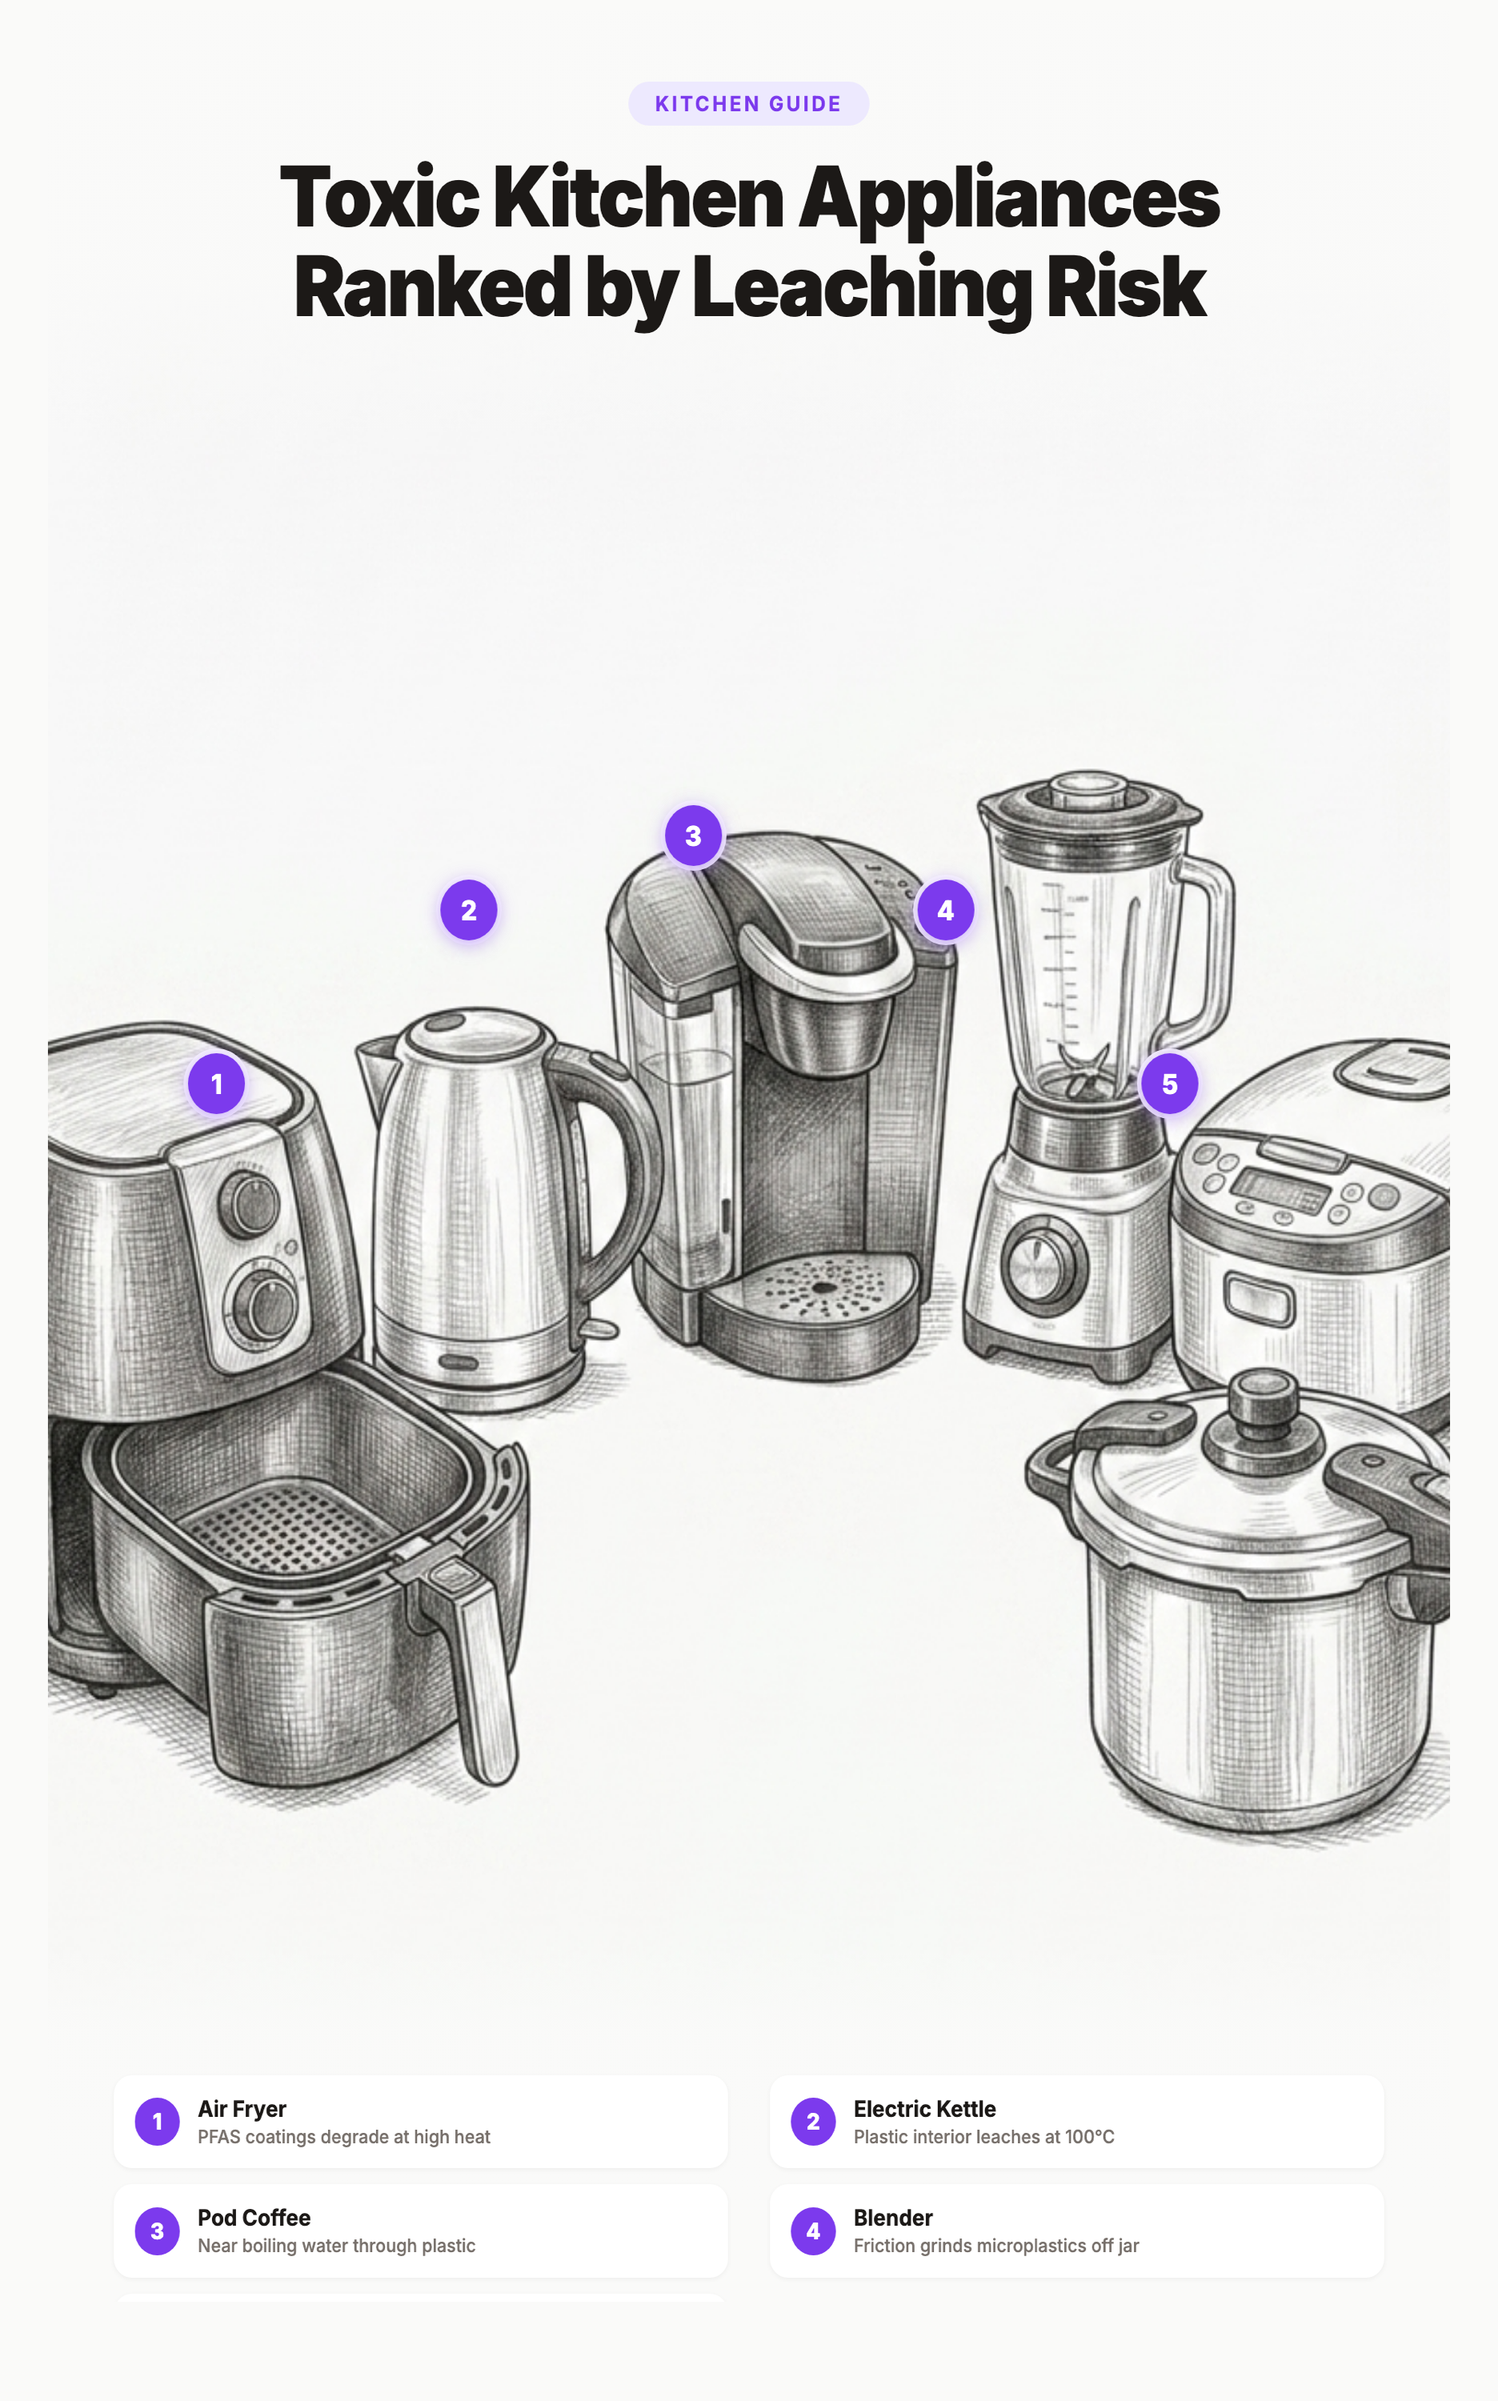
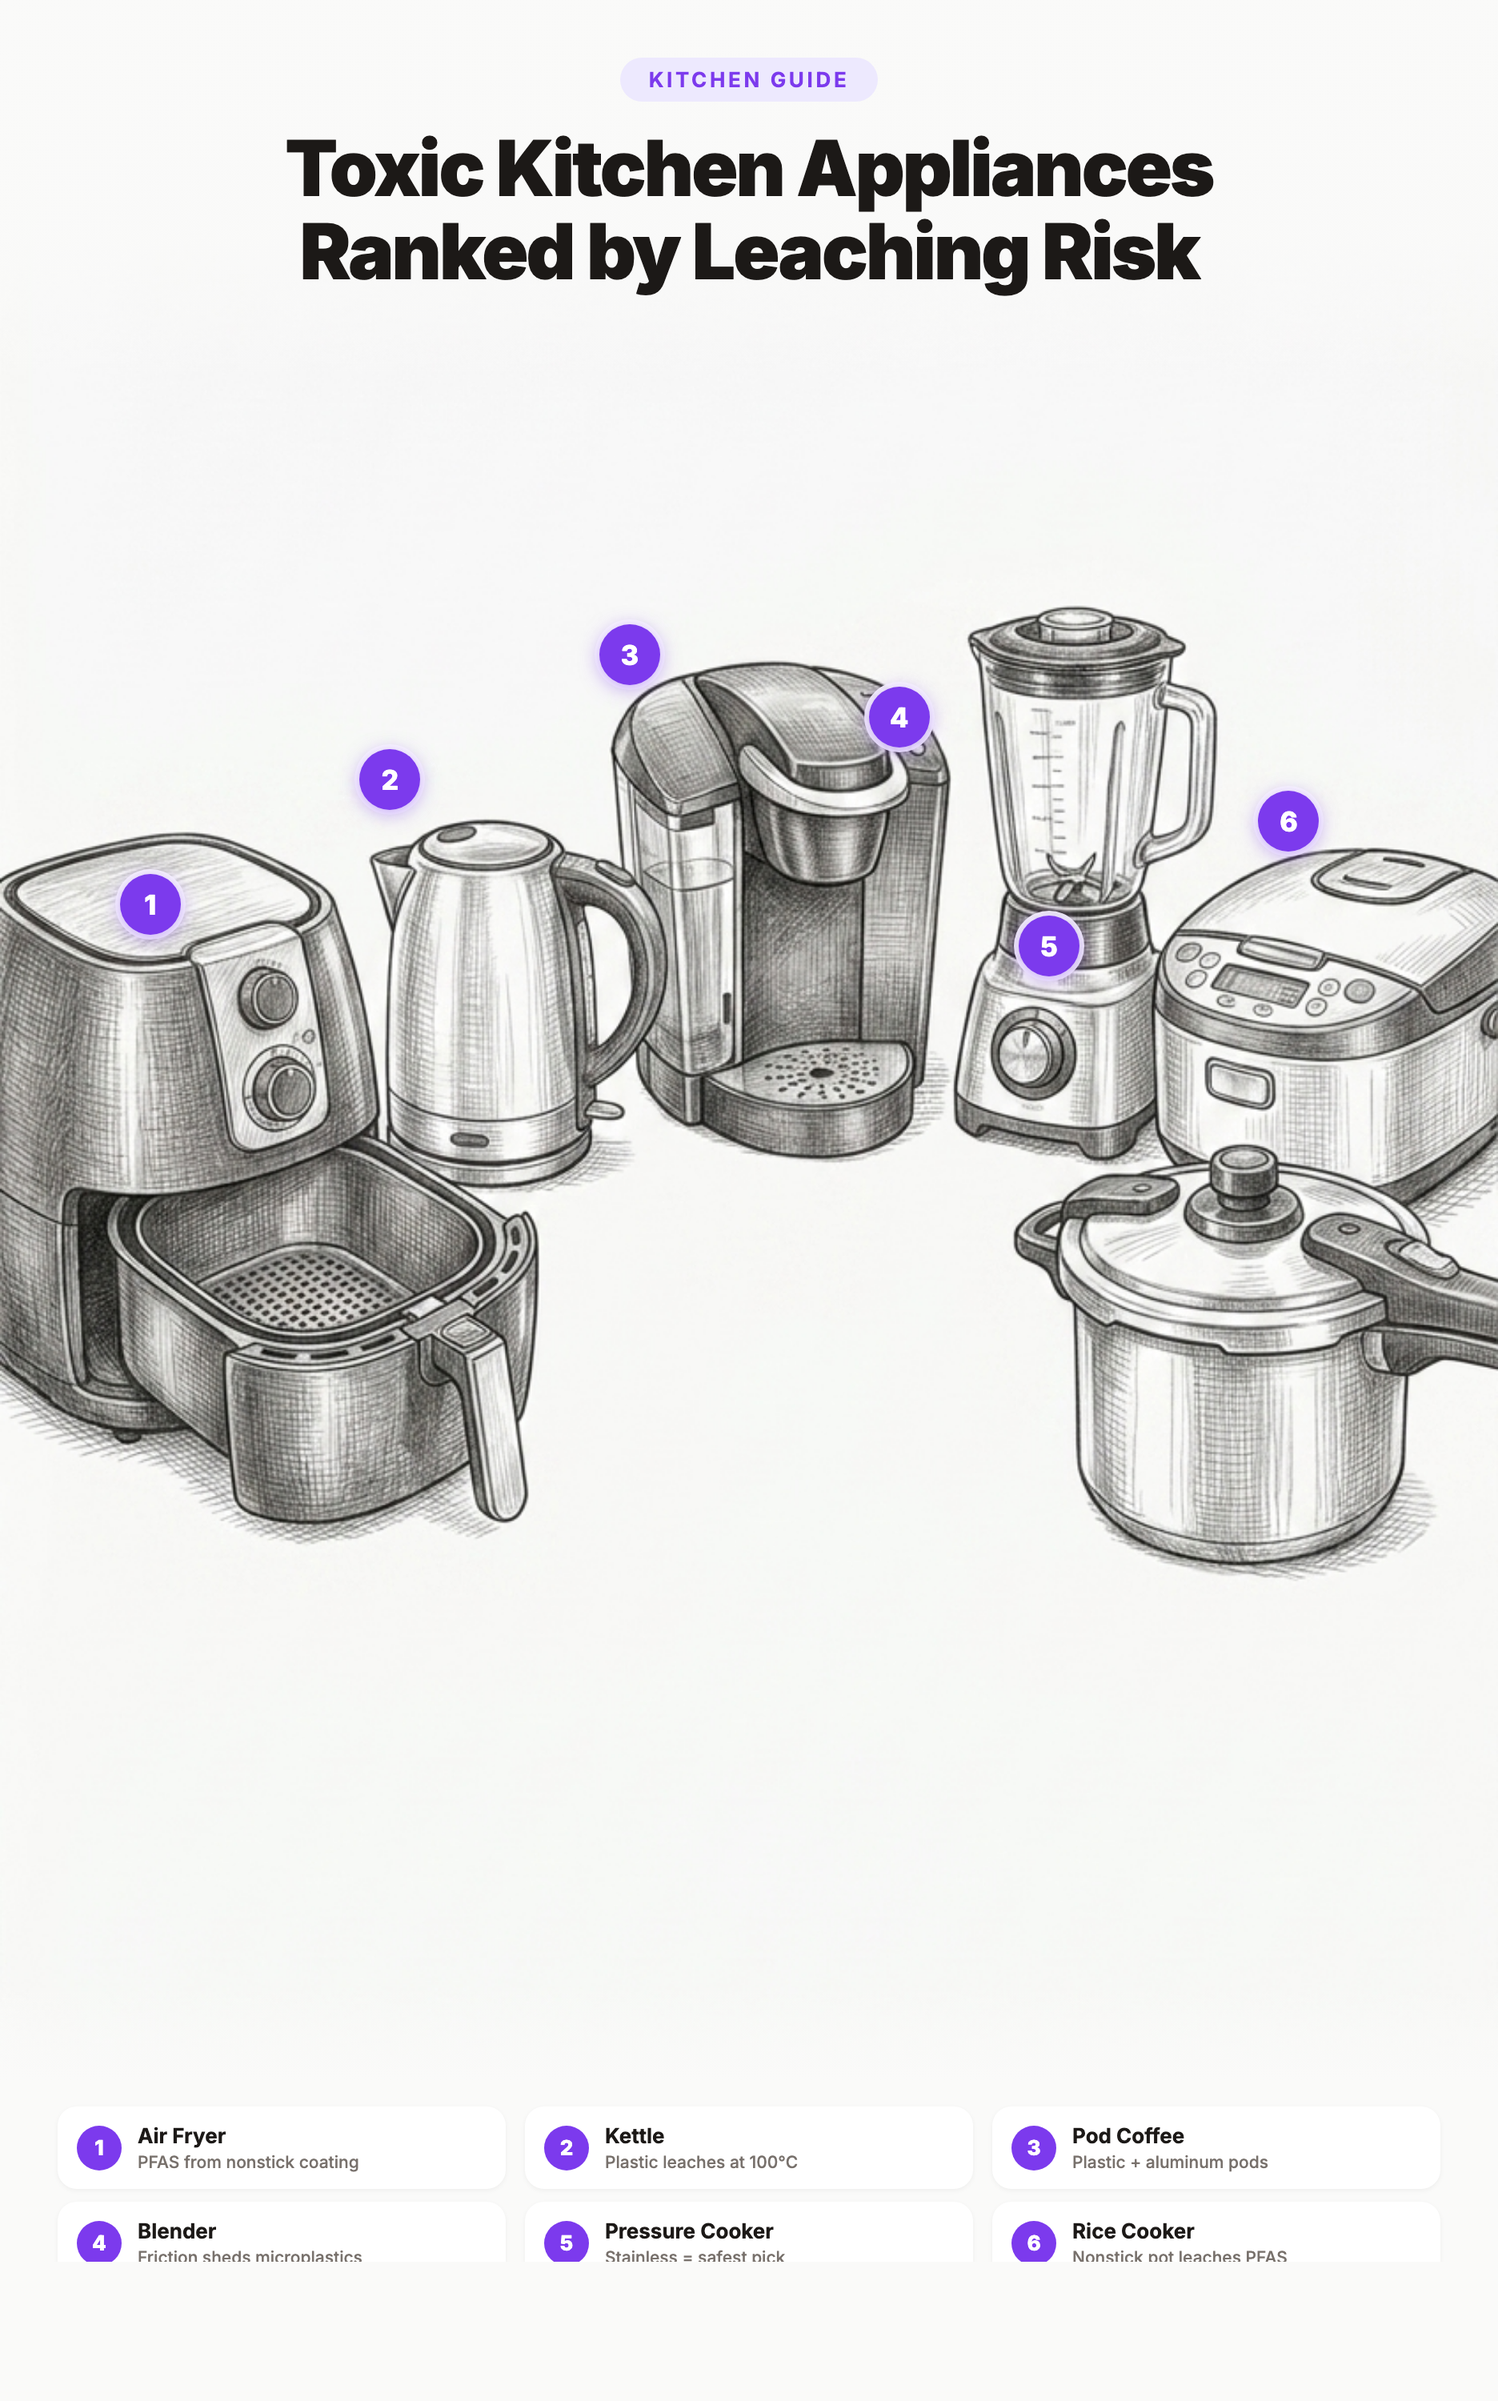
Fix pin image: 6 badges, 6 swap cards, all visible
Restructured layout from absolute positioning to flexbox so bottom
card content doesn't get cut off by crop.

diff --git a/images/toxic-appliances-swap-pinterest.html b/images/toxic-appliances-swap-pinterest.html
@@ -16,19 +16,27 @@
       background: #fafaf9;
       display: flex;
       justify-content: center;
-      padding: 2rem;
+      padding: 0;
       font-family: 'Inter', -apple-system, sans-serif;
     }
 
     .pin {
-      width: 1000px;
-      height: 1550px;
+      width: 936px;
+      height: 1500px;
+      display: flex;
+      flex-direction: column;
+      overflow: hidden;
+      position: relative;
+    }
+
+    /* Image area: takes remaining space */
+    .image-area {
+      flex: 1;
       position: relative;
       overflow: hidden;
     }
 
-    /* Full bleed image */
-    .pin > img {
+    .image-area img {
       width: 100%;
       height: 100%;
       object-fit: cover;
@@ -39,13 +47,14 @@
     .top-overlay {
       position: absolute;
       top: 0; left: 0; right: 0;
-      padding: 44px 40px 70px;
+      padding: 36px 40px 56px;
       background: linear-gradient(to bottom,
         rgba(250, 250, 249, 0.95) 0%,
         rgba(250, 250, 249, 0.85) 60%,
         rgba(250, 250, 249, 0) 100%
       );
       text-align: center;
+      z-index: 2;
     }
 
     .headline-tag {
@@ -62,7 +71,7 @@
     }
 
     .top-overlay h1 {
-      font-size: 52px;
+      font-size: 48px;
       font-weight: 900;
       color: #1c1917;
       line-height: 1.08;
@@ -88,49 +97,57 @@
       z-index: 3;
     }
 
-    .badge-1 { left: 10%; top: 42%; }
-    .badge-2 { left: 28%; top: 35%; }
-    .badge-3 { left: 44%; top: 32%; }
-    .badge-4 { left: 62%; top: 35%; }
-    .badge-5 { left: 78%; top: 42%; }
+    .badge-1 { left: 8%;  top: 42%; }
+    .badge-2 { left: 24%; top: 36%; }
+    .badge-3 { left: 40%; top: 30%; }
+    .badge-4 { left: 58%; top: 33%; }
+    .badge-5 { left: 68%; top: 44%; }
+    .badge-6 { left: 84%; top: 38%; }
+
+    /* Gradient fade at bottom of image */
+    .image-fade {
+      position: absolute;
+      bottom: 0; left: 0; right: 0;
+      height: 60px;
+      background: linear-gradient(to bottom,
+        rgba(250, 250, 249, 0) 0%,
+        rgba(250, 250, 249, 1) 100%
+      );
+      z-index: 2;
+    }
 
     /* ─── BOTTOM: swap legend card ─── */
     .bottom-card {
-      position: absolute;
-      bottom: 0; left: 0; right: 0;
-      background: linear-gradient(to bottom,
-        rgba(250, 250, 249, 0) 0%,
-        rgba(250, 250, 249, 0.9) 15%,
-        rgba(250, 250, 249, 0.97) 30%,
-        rgba(250, 250, 249, 1) 50%
-      );
-      padding: 80px 44px 20px;
+      background: #fafaf9;
+      padding: 16px 36px 14px;
+      flex-shrink: 0;
+      min-height: 200px;
     }
 
     .swaps {
       display: grid;
-      grid-template-columns: 1fr 1fr;
-      gap: 10px 28px;
+      grid-template-columns: 1fr 1fr 1fr;
+      gap: 8px 12px;
     }
 
     .swap {
       display: flex;
       align-items: center;
-      gap: 12px;
+      gap: 10px;
       background: #fff;
       border-radius: 12px;
-      padding: 12px 14px;
+      padding: 10px 12px;
       box-shadow: 0 1px 3px rgba(0,0,0,0.05);
     }
 
     .swap-num {
-      width: 30px;
-      height: 30px;
-      min-width: 30px;
+      width: 28px;
+      height: 28px;
+      min-width: 28px;
       border-radius: 50%;
       background: #7c3aed;
       color: #fff;
-      font-size: 14px;
+      font-size: 13px;
       font-weight: 800;
       display: flex;
       align-items: center;
@@ -139,7 +156,7 @@
 
     .swap-text {
       flex: 1;
-      font-size: 14px;
+      font-size: 13px;
       font-weight: 700;
       color: #1c1917;
       line-height: 1.3;
@@ -147,7 +164,7 @@
 
     .swap-text span {
       display: block;
-      font-size: 11.5px;
+      font-size: 10.5px;
       font-weight: 500;
       color: #78716c;
       margin-top: 1px;
@@ -158,8 +175,8 @@
       display: flex;
       align-items: center;
       justify-content: space-between;
-      margin-top: 16px;
-      padding-top: 12px;
+      margin-top: 10px;
+      padding-top: 8px;
       border-top: 1px solid #e7e5e4;
     }
 
@@ -178,40 +195,49 @@
 </head>
 <body>
   <div class="pin">
-    <img src="kitchen appliences.png" alt="Pencil sketch of kitchen appliances on countertop">
+    <div class="image-area">
+      <img src="kitchen appliences.png" alt="Pencil sketch of kitchen appliances on countertop">
 
-    <div class="top-overlay">
-      <div class="headline-tag">Kitchen Guide</div>
-      <h1>Toxic Kitchen Appliances<br>Ranked by Leaching Risk</h1>
+      <div class="top-overlay">
+        <div class="headline-tag">Kitchen Guide</div>
+        <h1>Toxic Kitchen Appliances<br>Ranked by Leaching Risk</h1>
+      </div>
+
+      <div class="badge badge-1">1</div>
+      <div class="badge badge-2">2</div>
+      <div class="badge badge-3">3</div>
+      <div class="badge badge-4">4</div>
+      <div class="badge badge-5">5</div>
+      <div class="badge badge-6">6</div>
+
+      <div class="image-fade"></div>
     </div>
-
-    <div class="badge badge-1">1</div>
-    <div class="badge badge-2">2</div>
-    <div class="badge badge-3">3</div>
-    <div class="badge badge-4">4</div>
-    <div class="badge badge-5">5</div>
 
     <div class="bottom-card">
       <div class="swaps">
         <div class="swap">
           <div class="swap-num">1</div>
-          <div class="swap-text">Air Fryer<span>PFAS coatings degrade at high heat</span></div>
+          <div class="swap-text">Air Fryer<span>PFAS from nonstick coating</span></div>
         </div>
         <div class="swap">
           <div class="swap-num">2</div>
-          <div class="swap-text">Electric Kettle<span>Plastic interior leaches at 100°C</span></div>
+          <div class="swap-text">Kettle<span>Plastic leaches at 100°C</span></div>
         </div>
         <div class="swap">
           <div class="swap-num">3</div>
-          <div class="swap-text">Pod Coffee<span>Near boiling water through plastic</span></div>
+          <div class="swap-text">Pod Coffee<span>Plastic + aluminum pods</span></div>
         </div>
         <div class="swap">
           <div class="swap-num">4</div>
-          <div class="swap-text">Blender<span>Friction grinds microplastics off jar</span></div>
+          <div class="swap-text">Blender<span>Friction sheds microplastics</span></div>
         </div>
         <div class="swap">
           <div class="swap-num">5</div>
-          <div class="swap-text">Pressure Cooker<span>Stainless steel = safest option</span></div>
+          <div class="swap-text">Pressure Cooker<span>Stainless = safest pick</span></div>
+        </div>
+        <div class="swap">
+          <div class="swap-num">6</div>
+          <div class="swap-text">Rice Cooker<span>Nonstick pot leaches PFAS</span></div>
         </div>
       </div>
       <div class="footer">
